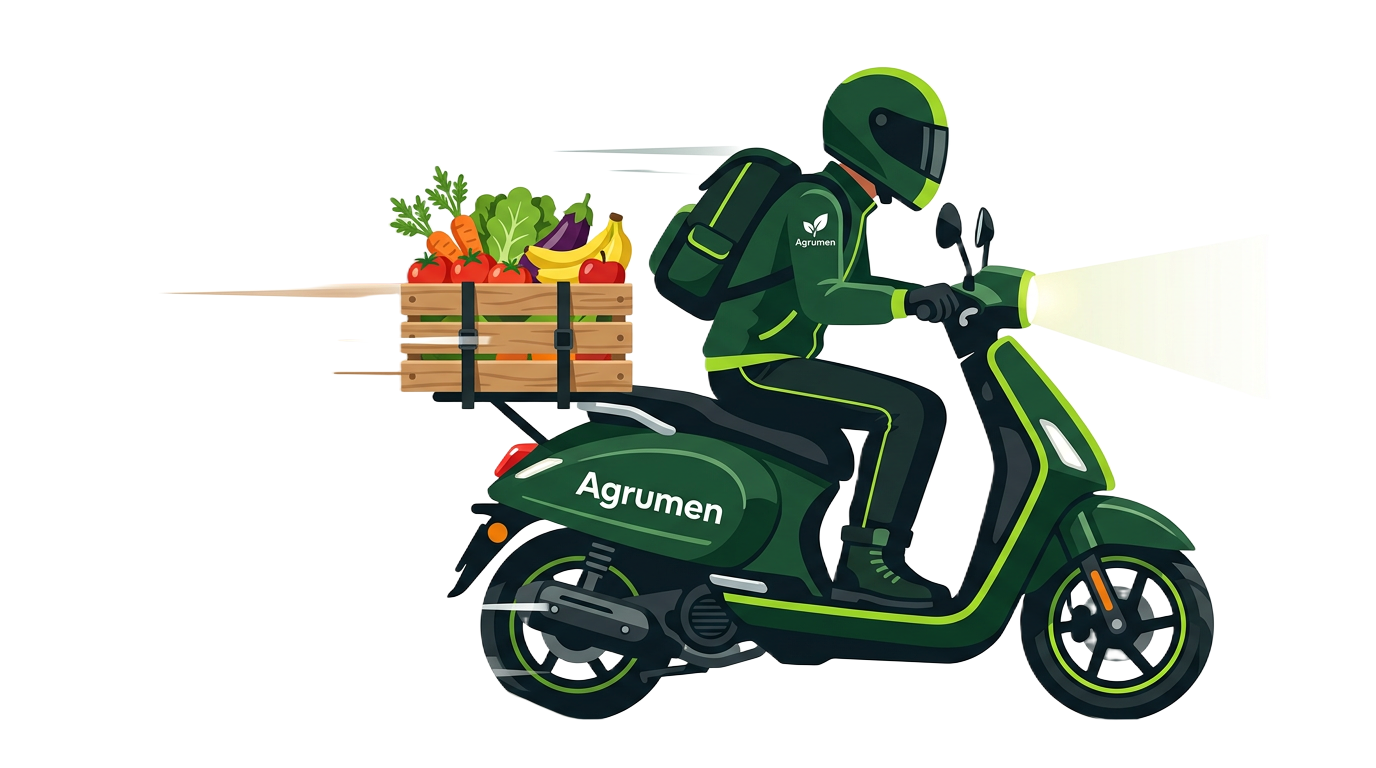
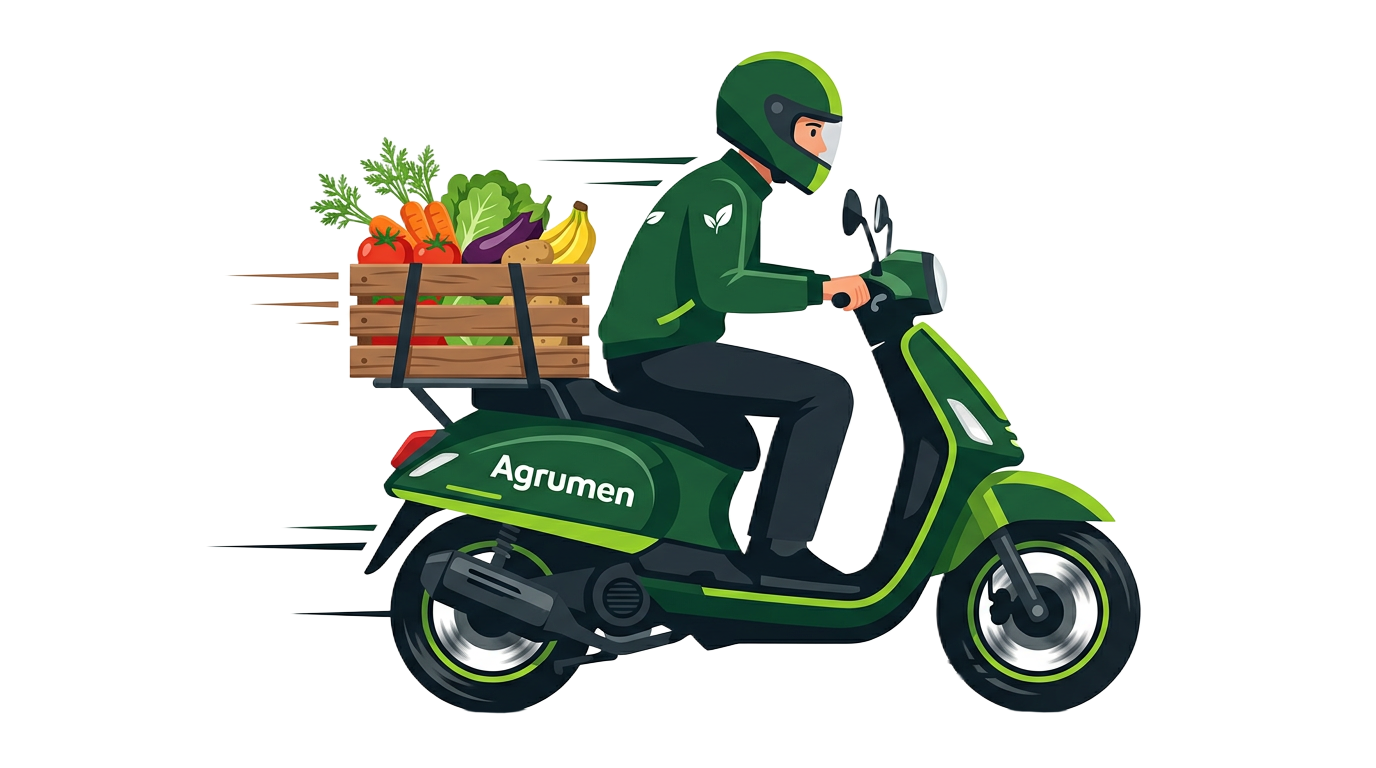
Ajusté livraison moto et page Marche

diff --git a/src/components/landing/SellerCTA.tsx b/src/components/landing/SellerCTA.tsx
@@ -119,13 +119,13 @@ const SellerCTA = () => {
           </div>
 
           {/* Right — moto illustration */}
-          <div className="relative flex items-center justify-center p-6 lg:p-10">
+          <div className="relative flex items-center justify-center lg:justify-start p-6 lg:p-10 lg:pl-0">
             <motion.img
               src={deliveryMoto}
               alt="Livraison à moto"
-              className="w-full max-w-[500px] lg:max-w-[580px] h-auto drop-shadow-2xl"
+              className="w-full max-w-[520px] lg:max-w-[620px] h-auto drop-shadow-2xl"
               loading="lazy"
-              width={1024}
+              width={1376}
               height={768}
               initial={{ opacity: 0, x: 40 }}
               whileInView={{ opacity: 1, x: 0 }}

diff --git a/src/components/PromoCarousel.tsx b/src/components/PromoCarousel.tsx
@@ -5,7 +5,7 @@ import papayaImg from "@/assets/papaya-promo.webp";
 import vegetablesImg from "@/assets/vegetables-promo.webp";
 import fruitsPromo from "@/assets/fruits-promo.webp";
 import spicesImg from "@/assets/spices-promo.webp";
-import deliveryImg from "@/assets/delivery-promo.webp";
+import deliveryImg from "@/assets/delivery-moto.png";
 
 const banners = [
   {
